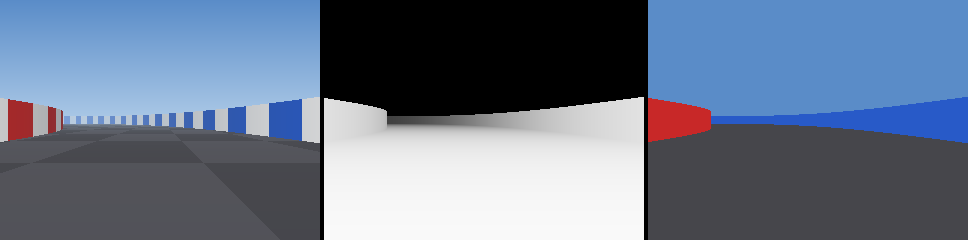
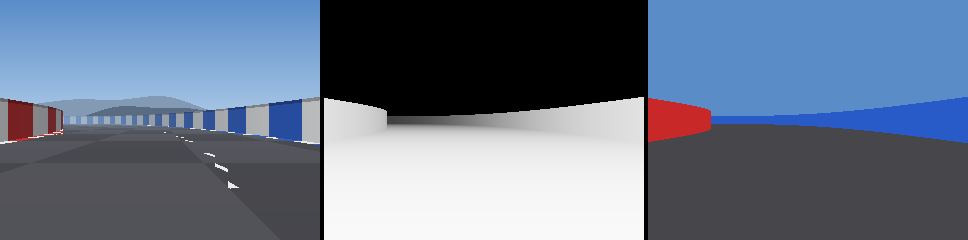
Docs and release 0.2.0
* Document playing and domain randomization for v0.2

* Release 0.2.0

---------

Changed region(s): [[0.0, 0.3792, 0.3409, 0.6125], [0.2169, 0.7583, 0.2479, 0.7875], [0.2169, 0.6708, 0.2479, 0.7]]

diff --git a/tests/test_docs.py b/tests/test_docs.py
@@ -37,10 +37,17 @@ def _doc_files() -> list[Path]:
     return [README, *sorted(DOCS.glob("*.md"))]
 
 
-def _test_blocks() -> list[str]:
-    """Return the README python blocks directly preceded by a <!-- test --> line."""
+def _test_blocks(text: str | None = None) -> list[str]:
+    """Return the python blocks of text (default README) preceded by a <!-- test --> line."""
     pattern = r"^<!-- test -->\n```python\n(.*?)^```$"
-    return re.findall(pattern, README.read_text(encoding="utf-8"), re.MULTILINE | re.DOTALL)
+    text = README.read_text(encoding="utf-8") if text is None else text
+    return re.findall(pattern, text, re.MULTILINE | re.DOTALL)
+
+
+def _section(name: str) -> str:
+    """Return the README text of the ## section name up to the next ## heading."""
+    text = README.read_text(encoding="utf-8")
+    return text.split(f"\n## {name}\n", 1)[1].split("\n## ", 1)[0]
 
 
 def _help(argv: list[str]) -> str:
@@ -55,7 +62,8 @@ def _help(argv: list[str]) -> str:
 def test_readme_code_blocks_run_DOC04(tmp_path: Path) -> None:
     blocks = _test_blocks()
     assert len(blocks) >= 2
-    assert sum(1 for b in blocks for line in b.splitlines() if line.strip()) <= 15
+    quickstart = _test_blocks(_section("Quickstart"))
+    assert sum(1 for b in quickstart for line in b.splitlines() if line.strip()) <= 15
     env = {**os.environ, "SDL_VIDEODRIVER": "dummy"}
     for block in blocks:
         result = subprocess.run([sys.executable, "-c", block], cwd=tmp_path, env=env)
@@ -95,11 +103,31 @@ def test_cli_flags_exist_DOC04() -> None:
 def test_readme_order_DOC01() -> None:
     text = README.read_text(encoding="utf-8")
     headings = re.findall(r"^## (.+)$", text, re.MULTILINE)
-    assert headings[: len(HEADINGS)] == HEADINGS
+    assert [h for h in headings if h in HEADINGS] == HEADINGS
     intro = text.split("\n## Installation\n", 1)[0]
     assert "](docs/img/buffers.png)" in intro
     sentence = [ln for ln in intro.splitlines()[1:] if ln.strip() and not ln.startswith("![")]
     assert sentence
+
+
+def test_readme_playing_and_dr_DOC05() -> None:
+    headings = re.findall(r"^## (.+)$", README.read_text(encoding="utf-8"), re.MULTILINE)
+    assert "Playing" in headings
+    assert "Domain randomization" in headings
+    playing = _section("Playing")
+    for key in ("R", "P", "M", "F1", "Tab", "F11", "F12", "Esc"):
+        assert re.search(rf"\b{key}\b", playing), key
+    dr = _section("Domain randomization")
+    for text in (
+        "[appearance]",
+        "randomize",
+        "strength",
+        "Raycer/ProcTrainDR-v0",
+        "Raycer/ProcTestDR-v0",
+        'info["appearance"]',
+    ):
+        assert text in dr, text
+    assert _test_blocks(dr)
 
 
 def test_buffers_image_DOC01() -> None:
@@ -137,7 +165,12 @@ def test_citation_and_changelog_DOC04() -> None:
     assert "https://keepachangelog.com/en/1.1.0/" in changelog
     assert "Semantic Versioning" in changelog
     assert re.search(r"^## \[Unreleased\]$", changelog, re.MULTILINE)
-    assert re.search(r"^## \[0\.1\.0\] - \d{4}-\d{2}-\d{2}$", changelog, re.MULTILINE)
+    new = re.search(r"^## \[0\.2\.0\] - \d{4}-\d{2}-\d{2}$", changelog, re.MULTILINE)
+    old = re.search(r"^## \[0\.1\.0\] - \d{4}-\d{2}-\d{2}$", changelog, re.MULTILINE)
+    assert new
+    assert old
+    assert new.start() < old.start()
+    assert "### Added" in changelog[new.end() : old.start()]
     assert "### Added" in changelog.split("## [0.1.0]", 1)[1]
 
 

diff --git a/tests/test_smoke.py b/tests/test_smoke.py
@@ -5,7 +5,7 @@ from raycer.cli import main
 
 
 def test_version_matches_metadata() -> None:
-    assert raycer.__version__ == "0.1.0"
+    assert raycer.__version__ == "0.2.0"
 
 
 def test_cli_version(capsys: pytest.CaptureFixture[str]) -> None:

diff --git a/README.md b/README.md
@@ -122,13 +122,66 @@ raycer --version
 raycer list
 raycer benchmark --scenario technical-v0 --steps 5000 --width 96 --height 72 --buffers screen,depth,labels --seed 0 --json --min-sps 250
 raycer render-sample --scenario oval-v0 --seed 0 --steps 60 --width 320 --height 240 --out samples
-raycer play --scenario oval-v0 --seed 0 --width 320 --height 240 --depth --labels --continuous --record recordings
+raycer play --scenario oval-v0 --seed 0 --width 320 --height 240 --depth --labels --record recordings
 raycer play --replay recordings/oval-v0_snone_20260101-120000.npz
 ```
 
-`raycer play` needs the `human` extra. Keys: arrows or WASD to drive, R reset, P pause, Tab
-switches the view, F12 screenshot, Esc quits. See [docs/benchmark.md](docs/benchmark.md) and
+`raycer play` needs the `human` extra; keys and controls are in [Playing](#playing). See
+[docs/benchmark.md](docs/benchmark.md) and [docs/recording.md](docs/recording.md).
+
+## Playing
+
+Install the viewer with `uv add "raycer[human]"`, then drive:
+
+```bash
+raycer play --scenario oval-v0
+raycer play --scenario technical-v0 --discrete
+```
+
+| Key | Action |
+| --- | --- |
+| W/A/S/D or arrows | drive |
+| R | restart |
+| P | pause |
+| M | minimap (on by default) |
+| H/F1 | help overlay |
+| Tab | switch view |
+| F11 | fullscreen |
+| F12 | screenshot, written to the current directory as `raycer_<timestamp>.png` |
+| Esc | quit |
+
+Each episode starts after a 3-2-1 countdown and ends with a finish screen. Steering and
+throttle use continuous controls with ramps by default; `--discrete` selects the discrete
+action space. `--record DIR` records your episodes and `--replay FILE` replays one, see
 [docs/recording.md](docs/recording.md).
+
+## Domain randomization
+
+The `[appearance]` table of a scenario TOML, or `Game.set_appearance(randomize, split="train",
+strength=1.0)`, randomizes the look of each episode:
+
+```toml
+[appearance]
+randomize = false   # true turns randomization on
+split = "train"     # "train" or "test"
+strength = 1.0      # 0 to 1
+```
+
+Randomized are hue, brightness, saturation, sky/fog color, A/B color swaps, stripe periods and
+the skyline phase, all scaled by `strength`. Depth and labels stay bit-identical, and the
+parameters are drawn from the episode seed. The hue offset lies in [0°, 270°) for `train` and
+in [270°, 360°) for `test`. The scenarios `proc-train-dr-v0` (`Raycer/ProcTrainDR-v0`) and
+`proc-test-dr-v0` (`Raycer/ProcTestDR-v0`) use these splits:
+
+<!-- test -->
+```python
+import gymnasium
+import raycer  # noqa: F401
+
+env = gymnasium.make("Raycer/ProcTrainDR-v0")
+obs, info = env.reset(seed=0)
+print(info["appearance"]["hue_offset_deg"])
+```
 
 ## For ViZDoom users
 

diff --git a/docs/scenarios.md b/docs/scenarios.md
@@ -36,6 +36,11 @@ time = 0.01
 collision = 1.0
 wrongway = 0.05
 lap = 10.0
+
+[appearance]                  # domain randomization, see the README
+randomize = false
+split = "train"               # "train" or "test" hue range
+strength = 1.0                # 0 to 1
 ```
 
 Unknown keys raise `ValueError` naming the file and the key.
@@ -59,10 +64,12 @@ Unknown keys raise `ValueError` naming the file and the key.
 | `technical-v0` | `Raycer/Technical-v0` | builtin `technical` | 1 | 4000 | fixed track with obstacles |
 | `proc-train-v0` | `Raycer/ProcTrain-v0` | procedural `medium`, split train | 1 | 4000 | training distribution |
 | `proc-test-v0` | `Raycer/ProcTest-v0` | procedural `medium`, split test | 1 | 4000 | evaluation only, disjoint |
+| `proc-train-dr-v0` | `Raycer/ProcTrainDR-v0` | procedural `medium`, split train, appearance `train` | 1 | 4000 | training with randomized appearance |
+| `proc-test-dr-v0` | `Raycer/ProcTestDR-v0` | procedural `medium`, split test, appearance `test` | 1 | 4000 | evaluation on unseen appearance |
 | `time-trial-v0` | `Raycer/TimeTrial-v0` | builtin `oval` | 3 | 9000 | `w_time = 0.05`, lap times |
 
 `import raycer` registers each ID plus a `-Continuous-v0` variant (for example
-`Raycer/ProcTrain-Continuous-v0`), 12 IDs in total, all with
+`Raycer/ProcTrain-Continuous-v0`), 16 IDs in total, all with
 `entry_point="raycer.env:RaycerEnv"`. The version suffix is raised whenever observations,
 rewards or dynamics change for the same seed.
 

diff --git a/docs/api.md b/docs/api.md
@@ -18,6 +18,7 @@ Configure before `init()`; setters called after `init()` raise `RuntimeError`.
 | `set_episode_timeout(steps)` | Timeout in env steps, 0 (default) means unlimited |
 | `set_frame_skip(n)` | Physics ticks (1/60 s) per env step, 1 to 16, default 4 |
 | `set_reward_config(**weights)` | Override reward weights (`w_progress`, `w_time`, `w_collision`, `w_wrongway`, `w_lap`); applies from the next episode |
+| `set_appearance(randomize, split="train", strength=1.0)` | Per-episode appearance randomization; `split` is `"train"` or `"test"`, `strength` 0 to 1 |
 | `set_seed(seed)` | Seed used from the next episode |
 | `init()` | Freeze the configuration and start the first episode |
 | `new_episode(seed=None)` | Reset car, progress and reward |
@@ -79,6 +80,7 @@ RaycerEnv(scenario="oval-v0", *, config_path=None, render_mode=None,
 | `wrong_way_steps` | Cumulative steps driving the wrong way |
 | `lap_times` | List of lap times in seconds |
 | `is_success` | True once all target laps are done |
+| `appearance` | Only with appearance randomization on: dict of the drawn appearance parameters |
 | `depth_m` | Only with `metric_depth_info=True`: `float32 (H, W)` depth in metres |
 
 ### Episode end

diff --git a/CHANGELOG.md b/CHANGELOG.md
@@ -6,6 +6,24 @@ All notable changes to this project are documented in this file. The format is b
 
 ## [Unreleased]
 
+## [0.2.0] - 2026-11-20
+
+### Added
+
+- Skyline, sun lighting and road markings in the RGB buffer.
+- Human viewer upgrade: scalable window, HUD, minimap, countdown, pause, finish and help
+  overlays, ramped continuous controls, `raycer play --discrete` and F11 fullscreen.
+- Domain randomization: the `[appearance]` table, `Game.set_appearance`, `info["appearance"]`,
+  the scenarios `proc-train-dr-v0` and `proc-test-dr-v0` and their Gym IDs
+  `Raycer/ProcTrainDR-v0`, `Raycer/ProcTestDR-v0`, `Raycer/ProcTrainDR-Continuous-v0` and
+  `Raycer/ProcTestDR-Continuous-v0`.
+
+### Changed
+
+- `raycer play` uses continuous controls with ramps by default; `--discrete` selects the
+  discrete action space.
+- The golden RGB images changed with the new look.
+
 ## [0.1.0] - 2026-11-19
 
 ### Added

diff --git a/docs/reproducibility.md b/docs/reproducibility.md
@@ -28,3 +28,11 @@
 
 The splits are disjoint. `proc-train-v0` uses `train` and `proc-test-v0` uses `test`; `val` is
 available to custom scenarios via `split = "val"`.
+
+## Appearance splits
+
+With appearance randomization on (`[appearance] randomize = true` or `Game.set_appearance`),
+the appearance parameters of each episode are drawn from `PCG64([episode_seed, 0xA77])`, a
+stream separate from the track. The hue offset lies in [0, 270) degrees for `train` and in
+[270, 360) degrees for `test`. The track, depth and labels are identical with and without
+randomization.

diff --git a/docs/recording.md b/docs/recording.md
@@ -35,4 +35,5 @@ of arrays, with `meta` parsed into a dict.
 
 `raycer play --record DIR` records the episodes you drive. `raycer play --replay FILE` replays
 the recorded actions with the same seed and track seed. Both need `raycer[human]`, and the two
-flags cannot be combined.
+flags cannot be combined. `--replay` skips the 3-2-1 countdown. The keys are listed in the
+README section [Playing](../README.md#playing).
